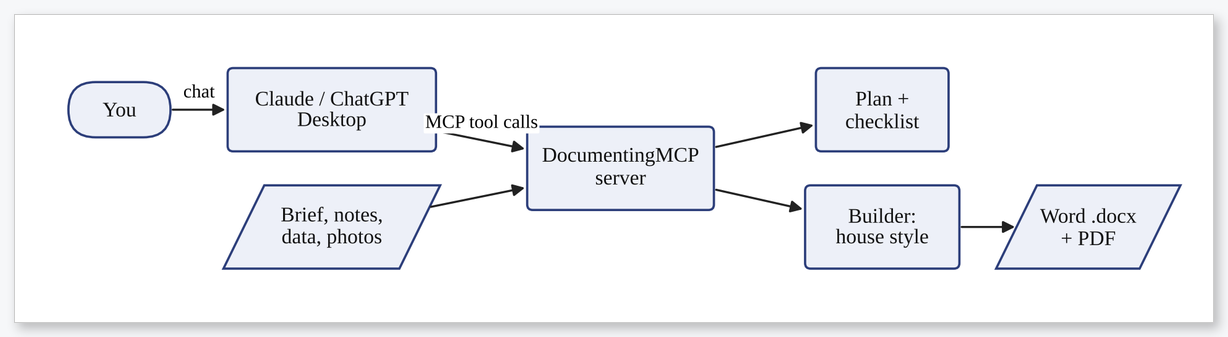
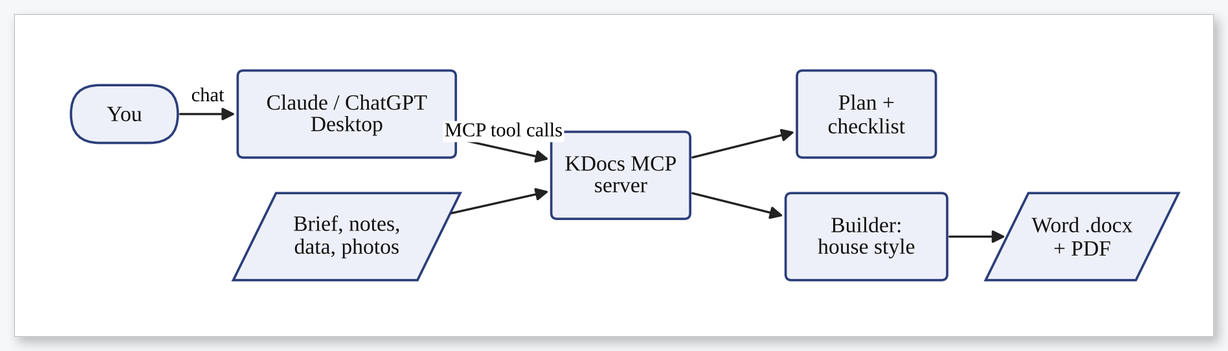
Rename to KDocs MCP (1.2.0)
Package kdocs_mcp, command kdocs-mcp. Old .docmcp.json files, the
~/.documenting-mcp folder and DOCUMENTING_MCP_HOME are still read.

Claude-Session: https://claude.ai/code/session_015GkjgC5TBr63aDftagccTY

Changed region(s): [[0.0309, 0.178, 0.9593, 0.8012], [0.3404, 0.7418, 0.3713, 0.7715], [0.2166, 0.5341, 0.2476, 0.5638]]

diff --git a/tests/test_features.py b/tests/test_features.py
@@ -7,8 +7,8 @@ import httpx
 import pytest
 from PIL import Image
 
-from documenting_mcp import ingest, project, references, server
-from documenting_mcp.plots import evaluate
+from kdocs_mcp import ingest, project, references, server
+from kdocs_mcp.plots import evaluate
 
 EXAMPLES = Path(__file__).parent.parent / "examples"
 REFS = [
@@ -23,8 +23,8 @@ REFS = [
 
 @pytest.fixture(autouse=True)
 def home(tmp_path, monkeypatch):
-    monkeypatch.setenv("DOCUMENTING_MCP_HOME", str(tmp_path / "home"))
-    monkeypatch.setenv("DOCUMENTING_MCP_REQUIRE_PLAN", "0")
+    monkeypatch.setenv("KDOCS_MCP_HOME", str(tmp_path / "home"))
+    monkeypatch.setenv("KDOCS_MCP_REQUIRE_PLAN", "0")
     server.set_profile(name="A B C Student", reg_no="D/ENG/EE/25/0000", intake="42", output_dir=str(tmp_path / "out"))
     return tmp_path
 
@@ -205,7 +205,7 @@ def test_section_edits_rebuild_in_place(home):
     assert "A DAC converts digital codes to analog voltages." in texts
     assert "Block Descriptions:" not in texts
     assert "A new answer for question two [2]." in texts  # citations renumber: razavi [1], kester [2]
-    assert json.loads(Path(path).with_name("demo.docmcp.json").read_text())["template"] == "assignment"
+    assert json.loads(Path(path).with_name("demo.kdocs.json").read_text())["template"] == "assignment"
 
 
 def test_outline_targets():
@@ -318,7 +318,7 @@ def test_bar_chart_keeps_category_labels(home):
     import matplotlib
 
     matplotlib.use("Agg")
-    from documenting_mcp.plots import make_plot
+    from kdocs_mcp.plots import make_plot
     import matplotlib.pyplot as plt
 
     seen = {}
@@ -354,7 +354,7 @@ def test_author_suffix_and_preprint():
 
 
 def test_absolute_value_bars_become_delimiters():
-    from documenting_mcp.latex_prep import prepare
+    from kdocs_mcp.latex_prep import prepare
 
     assert prepare(r"|V_i||V_j|").latex == r"\left|V_{i}\right|\left|V_{j}\right|" or \
         prepare(r"|V_i||V_j|").latex == r"\left|V_i\right|\left|V_j\right|"

diff --git a/src/kdocs_mcp/server.py b/src/kdocs_mcp/server.py
@@ -26,7 +26,7 @@ Template = Literal["lab_report", "ca_report", "assignment"]
 IMAGE_EXT = {".png", ".jpg", ".jpeg", ".gif", ".bmp", ".tif", ".tiff", ".emf", ".wmf"}
 
 mcp = MCPServer(
-    "DocumentingMCP",
+    "KDocs MCP",
     version=__version__,
     instructions=(
         "Generates university engineering documents (lab reports, CA/simulation reports, Q&A assignments) "
@@ -90,7 +90,7 @@ def set_profile(
     intake: e.g. "42".
     department: use a newline to control the line break on the cover.
     logo_path: optional custom crest image; the KDU crest is bundled by default.
-    output_dir: folder where documents are saved (default: Documents/DocumentingMCP).
+    output_dir: folder where documents are saved (default: Documents/KDocs).
     """
     p = load_profile()
     for key, val in dict(
@@ -552,7 +552,7 @@ def create_document(
             plan = planning.load(plan_id)
         except FileNotFoundError as exc:
             return {"error": str(exc)}
-    if os.environ.get("DOCUMENTING_MCP_REQUIRE_PLAN", "1") != "0" and not skip_planning:
+    if os.environ.get("KDOCS_MCP_REQUIRE_PLAN", "1") != "0" and not skip_planning:
         if plan is None or plan.status not in ("approved", "in_progress", "done"):
             return {
                 "error": "No approved plan yet. Call start_assignment, show the student the requirements checklist "
@@ -1207,7 +1207,7 @@ def check_similarity(docx_path: str, sources: list[str], threshold_percent: int 
 
 
 def main() -> None:
-    parser = argparse.ArgumentParser(description="DocumentingMCP server")
+    parser = argparse.ArgumentParser(description="KDocs MCP server")
     parser.add_argument(
         "--transport",
         choices=["stdio", "http", "sse"],

diff --git a/src/kdocs_mcp/project.py b/src/kdocs_mcp/project.py
@@ -1,6 +1,6 @@
 """Editable document sources.
 
-Every generated .docx gets a sidecar `<name>.docmcp.json` holding the Markdown body and settings. Edits
+Every generated .docx gets a sidecar `<name>.kdocs.json` holding the Markdown body and settings. Edits
 are applied to that source and the document is rebuilt, so formatting stays exactly in the master
 style no matter how many times a section is changed.
 """
@@ -12,7 +12,8 @@ import re
 from dataclasses import asdict, dataclass, field
 from pathlib import Path
 
-SIDECAR_SUFFIX = ".docmcp.json"
+SIDECAR_SUFFIX = ".kdocs.json"
+LEGACY_SIDECAR_SUFFIX = ".docmcp.json"  # documents made before the rename
 
 
 @dataclass
@@ -35,9 +36,11 @@ class DocSource:
 
 def sidecar_for(docx_path: str | Path) -> Path:
     p = Path(docx_path).expanduser()
-    if p.name.endswith(SIDECAR_SUFFIX):
+    if p.name.endswith((SIDECAR_SUFFIX, LEGACY_SIDECAR_SUFFIX)):
         return p
-    return p.with_name(p.stem + SIDECAR_SUFFIX)
+    new = p.with_name(p.stem + SIDECAR_SUFFIX)
+    old = p.with_name(p.stem + LEGACY_SIDECAR_SUFFIX)
+    return old if old.is_file() and not new.is_file() else new
 
 
 def file_hash(path: Path) -> str:
@@ -56,7 +59,7 @@ def load_source(docx_path: str | Path) -> DocSource:
     path = sidecar_for(docx_path)
     if not path.is_file():
         raise FileNotFoundError(
-            f"No editable source found for {Path(docx_path).name}. Only documents created by DocumentingMCP "
+            f"No editable source found for {Path(docx_path).name}. Only documents created by KDocs MCP "
             f"can be edited section by section (expected {path.name} next to the .docx)."
         )
     data = json.loads(path.read_text(encoding="utf-8"))

diff --git a/docs/make_images.py b/docs/make_images.py
@@ -1,4 +1,4 @@
-"""Regenerate the README images with DocumentingMCP's own drawing tools.
+"""Regenerate the README images with KDocs MCP's own drawing tools.
 
     uv run python docs/make_images.py
 
@@ -19,11 +19,11 @@ from PIL import Image, ImageDraw, ImageFilter, ImageFont
 ROOT = Path(__file__).resolve().parent.parent
 OUT = ROOT / "docs" / "images"
 WORK = Path(tempfile.mkdtemp())
-os.environ["DOCUMENTING_MCP_HOME"] = str(WORK / "home")
+os.environ["KDOCS_MCP_HOME"] = str(WORK / "home")
 
-from documenting_mcp import server  # noqa: E402
-from documenting_mcp.diagrams import render_circuit, render_flowchart  # noqa: E402
-from documenting_mcp.plots import make_plot  # noqa: E402
+from kdocs_mcp import server  # noqa: E402
+from kdocs_mcp.diagrams import render_circuit, render_flowchart  # noqa: E402
+from kdocs_mcp.plots import make_plot  # noqa: E402
 
 server.set_profile(name="A B C Student", reg_no="D/ENG/EE/25/0000", intake="42", output_dir=str(WORK / "out"))
 BG = (246, 247, 249)
@@ -97,7 +97,7 @@ def architecture() -> None:
     render_flowchart(
         """flowchart LR
           S([You]) -->|chat| AI[Claude / ChatGPT<br>Desktop]
-          AI -->|MCP tool calls| M[DocumentingMCP<br>server]
+          AI -->|MCP tool calls| M[KDocs MCP<br>server]
           IN[/Brief, notes,<br>data, photos/] --> M
           M --> P[Plan +<br>checklist]
           M --> B[Builder:<br>house style]

diff --git a/tests/test_planning.py b/tests/test_planning.py
@@ -6,13 +6,13 @@ import anyio
 import docx
 import pytest
 
-from documenting_mcp import planning, server
+from kdocs_mcp import planning, server
 
 
 @pytest.fixture(autouse=True)
 def home(tmp_path, monkeypatch):
-    monkeypatch.setenv("DOCUMENTING_MCP_HOME", str(tmp_path / "home"))
-    monkeypatch.delenv("DOCUMENTING_MCP_REQUIRE_PLAN", raising=False)  # the real, gated behaviour
+    monkeypatch.setenv("KDOCS_MCP_HOME", str(tmp_path / "home"))
+    monkeypatch.delenv("KDOCS_MCP_REQUIRE_PLAN", raising=False)  # the real, gated behaviour
     server.set_profile(name="A B C Student", reg_no="D/ENG/EE/25/0000", intake="42", output_dir=str(tmp_path / "out"))
     return tmp_path
 
@@ -98,7 +98,7 @@ def test_form_answers_fill_the_plan():
 
 @pytest.mark.parametrize("width,style,expect", [(0.5, "single", 'w:sz="4"'), (3, "double", 'w:val="double"'), (0, "single", None)])
 def test_border_options(home, monkeypatch, width, style, expect):
-    monkeypatch.setenv("DOCUMENTING_MCP_REQUIRE_PLAN", "0")
+    monkeypatch.setenv("KDOCS_MCP_REQUIRE_PLAN", "0")
     res = server.create_document(template="assignment", title="T", body_markdown="# Q\n\nA.\n",
                                  border_width_pt=width, border_style=style)
     xml = _xml(res["docx"])

diff --git a/tests/test_equations.py b/tests/test_equations.py
@@ -3,9 +3,9 @@ import zipfile
 import docx
 import pytest
 
-from documenting_mcp import server
-from documenting_mcp.latex_prep import prepare
-from documenting_mcp.omml import M, latex_to_omml
+from kdocs_mcp import server
+from kdocs_mcp.latex_prep import prepare
+from kdocs_mcp.omml import M, latex_to_omml
 
 
 @pytest.mark.parametrize(
@@ -45,8 +45,8 @@ def test_omml_is_native_and_upright():
 
 
 def test_numbered_equations(tmp_path, monkeypatch):
-    monkeypatch.setenv("DOCUMENTING_MCP_HOME", str(tmp_path))
-    monkeypatch.setenv("DOCUMENTING_MCP_REQUIRE_PLAN", "0")
+    monkeypatch.setenv("KDOCS_MCP_HOME", str(tmp_path))
+    monkeypatch.setenv("KDOCS_MCP_REQUIRE_PLAN", "0")
     server.set_profile(output_dir=str(tmp_path / "out"))
     body = "# Q\n\n$$V = IR \\tag{7}$$\n\n$$P = VI$$\n\n$$E = Pt \\notag$$\n"
     res = server.create_document(template="assignment", title="T", body_markdown=body, number_equations=True)

diff --git a/src/kdocs_mcp/profile.py b/src/kdocs_mcp/profile.py
@@ -13,12 +13,17 @@ BUNDLED_LOGO = Path(__file__).parent / "assets" / "kdu_crest.png"
 
 
 def config_dir() -> Path:
-    return Path(os.environ.get("DOCUMENTING_MCP_HOME", Path.home() / ".documenting-mcp"))
+    env = os.environ.get("KDOCS_MCP_HOME") or os.environ.get("DOCUMENTING_MCP_HOME")
+    if env:
+        return Path(env)
+    old = Path.home() / ".documenting-mcp"  # folder used before the rename
+    new = Path.home() / ".kdocs-mcp"
+    return old if old.is_dir() and not new.exists() else new
 
 
 def default_output_dir() -> Path:
     docs = Path.home() / "Documents"
-    return (docs if docs.is_dir() else Path.home()) / "DocumentingMCP"
+    return (docs if docs.is_dir() else Path.home()) / "KDocs"
 
 
 @dataclass

diff --git a/tests/test_live_word.py b/tests/test_live_word.py
@@ -7,7 +7,7 @@ from pathlib import Path
 import docx
 import pytest
 
-from documenting_mcp import live_word, project, server
+from kdocs_mcp import live_word, project, server
 
 
 class FakeFind:
@@ -163,8 +163,8 @@ def test_delete_and_replace_text_live():
 
 @pytest.fixture(autouse=True)
 def home(tmp_path, monkeypatch):
-    monkeypatch.setenv("DOCUMENTING_MCP_HOME", str(tmp_path / "home"))
-    monkeypatch.setenv("DOCUMENTING_MCP_REQUIRE_PLAN", "0")
+    monkeypatch.setenv("KDOCS_MCP_HOME", str(tmp_path / "home"))
+    monkeypatch.setenv("KDOCS_MCP_REQUIRE_PLAN", "0")
     server.set_profile(name="A B C Student", reg_no="D/ENG/EE/25/0000", intake="42", output_dir=str(tmp_path / "out"))
     return tmp_path
 

diff --git a/tests/test_build.py b/tests/test_build.py
@@ -6,15 +6,15 @@ import docx
 import pytest
 from PIL import Image
 
-from documenting_mcp import server
+from kdocs_mcp import server
 
 EXAMPLES = Path(__file__).parent.parent / "examples"
 
 
 @pytest.fixture(autouse=True)
 def isolated_home(tmp_path, monkeypatch):
-    monkeypatch.setenv("DOCUMENTING_MCP_HOME", str(tmp_path / "home"))
-    monkeypatch.setenv("DOCUMENTING_MCP_REQUIRE_PLAN", "0")
+    monkeypatch.setenv("KDOCS_MCP_HOME", str(tmp_path / "home"))
+    monkeypatch.setenv("KDOCS_MCP_REQUIRE_PLAN", "0")
     server.set_profile(name="A B C Student", reg_no="D/ENG/EE/25/0000", intake="42", output_dir=str(tmp_path / "out"))
     assets = tmp_path / "imgs"
     assets.mkdir()

diff --git a/src/kdocs_mcp/references.py b/src/kdocs_mcp/references.py
@@ -59,7 +59,7 @@ def lookup(identifier: str, timeout: float = 15.0, transport=None) -> dict:
     ident = identifier.strip()
     doi = re.search(r"(10\.\d{4,9}/[^\s\"<>]+)", ident)
     isbn = re.sub(r"[^0-9Xx]", "", ident) if re.fullmatch(r"(?:ISBN[: ]*)?[0-9Xx\- ]{10,17}", ident, re.I) else ""
-    headers = {"User-Agent": "DocumentingMCP/0.2 (student report generator)"}
+    headers = {"User-Agent": "KDocs MCP/0.2 (student report generator)"}
     with httpx.Client(timeout=timeout, follow_redirects=True, headers=headers, transport=transport) as client:
         if doi:
             r = client.get(f"https://api.crossref.org/works/{doi.group(1)}")

diff --git a/src/kdocs_mcp/__init__.py b/src/kdocs_mcp/__init__.py
@@ -1,0 +1,3 @@
+"""KDocs MCP: generate KDU EE reports as styled Word documents."""
+
+__version__ = "1.2.0"
